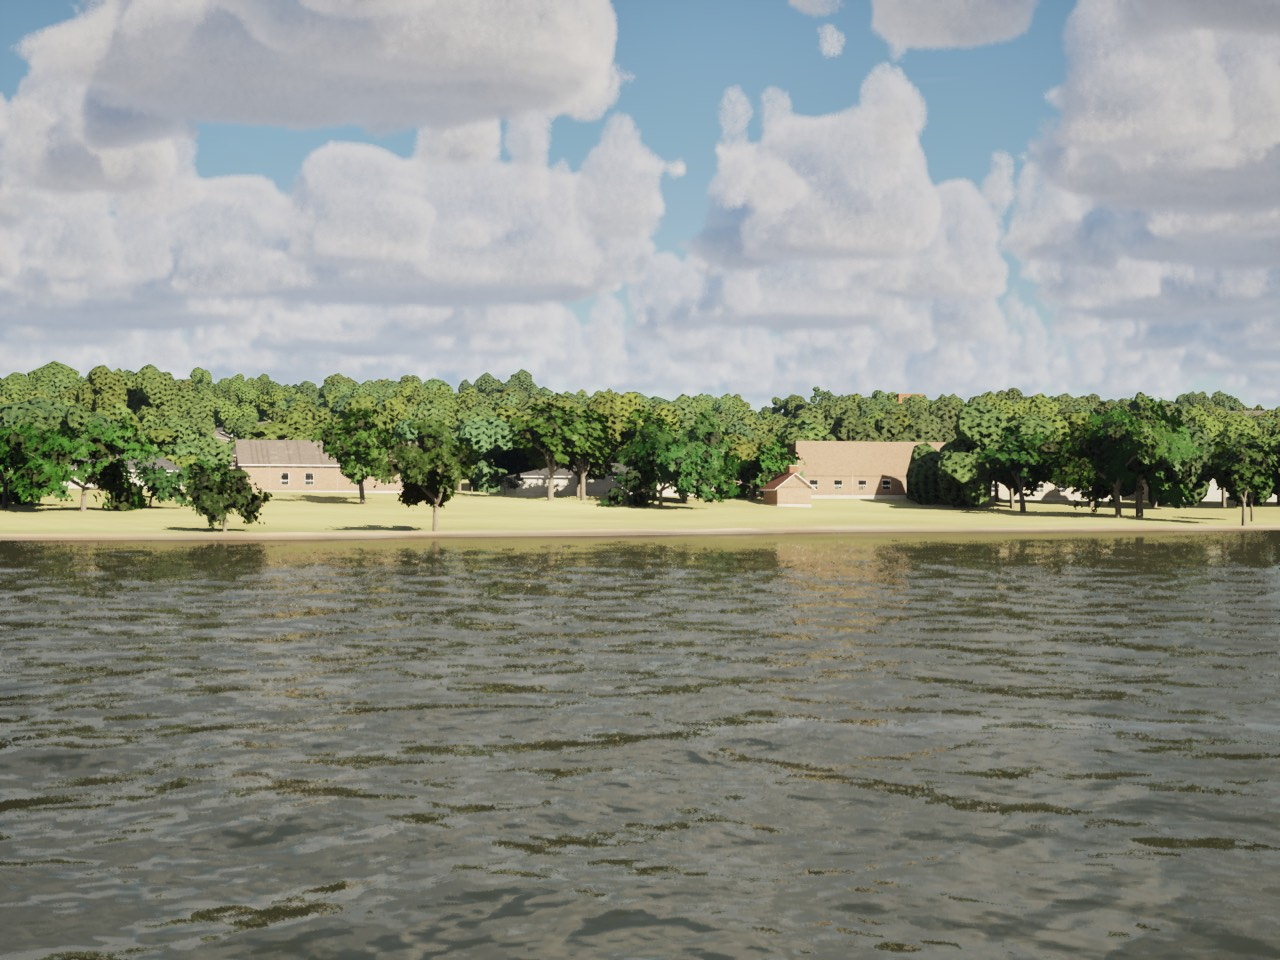
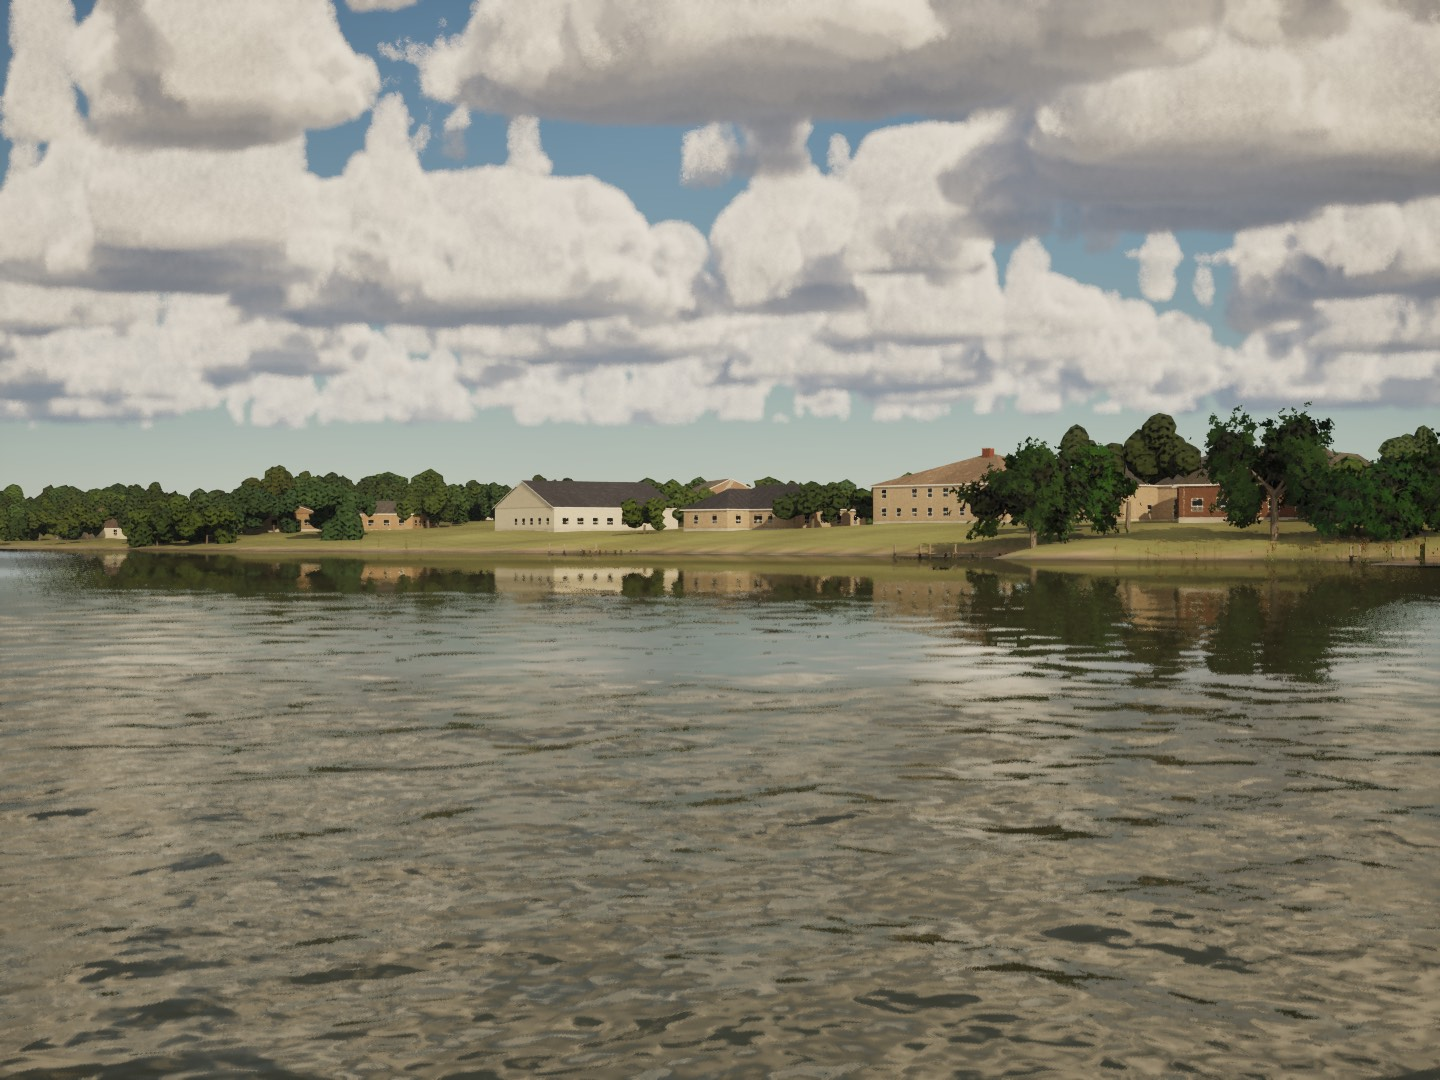
T1: Mac re-gate at 72e00da0 (High render thread within 0.4 ms of main) and shore150 from the PC's camera

diff --git a/docs/round-12/t1-trees/mac/README.md b/docs/round-12/t1-trees/mac/README.md
@@ -1,8 +1,8 @@
 # T1 trees: Mac stills and cost (High, M5 Pro, 1080p)
 
-Before is main c903d152; after is `t1-tree-lighting` 16753abb. Stills are the same scene, hour, weather and seed
-(`scenes.csv`, `scripts/capture-scenes.sh` uncooked). `shore150` is the Mac's stand-in for the PC's shore150 still
-(its arguments weren't saved): the east shore south of Chandlers Landing, about 150 m off, sun behind the camera.
+Before is main c903d152; after is `t1-tree-lighting` (lake towers and north shore at 16753abb, shore150 at 72e00da0). Stills are the same scene, hour, weather and seed
+(`scenes.csv`, `scripts/capture-scenes.sh` uncooked). `shore150` now uses the PC's camera (`-SailingCamWorld=60,260,2,80,0`, 17:00, 1440x1080), so the
+stills match the PC's.
 Compare with `real-shore.jpg` (real-10) and `real-lakeopen.jpg` (standing in for real-03); credits in `credits.md`.
 
 | Scene | Before | After |
@@ -11,24 +11,35 @@ Compare with `real-shore.jpg` (real-10) and `real-lakeopen.jpg` (standing in for
 | North lake shore | `r12-lake-north-shore-before.jpg` | `r12-lake-north-shore-after.jpg` |
 | Shore 150 m | `shore150-before.jpg` | `shore150-after.jpg` |
 
-## Cost (packaged Development, 12 s per view)
+## Cost (re-gate at 72e00da0, packaged Development, 12 s per view)
 
-`gate.sh --scope world` passes (Medium 60, High 45). GPU time is unchanged within the noise. On High, though, the
-render thread is 2 to 3.5 ms longer per frame, and the frame is bound by it:
+On 72e00da0 the crowns and the hidden proxies are in the ray-tracing scene on Ultra only; on High they are in Lumen's
+scene and the distance fields alone. `gate.sh --scope world` passes (Medium 60, High 45). Main c903d152 was re-benched
+in the same session, because this Mac runs some launches in a faster state (lake-towers 69 fps on main in the first
+gate and in one launch today, 64 in the others): compare within a session, not across them.
 
 | View (High) | fps main / branch | GPU ms | Lumen ms | render thread ms |
 |---|---|---|---|---|
-| marina | 61.6 / 52.8 | 14.42 / 14.19 | 1.97 / 2.06 | 15.99 / 18.65 |
-| coast-day | 53.6 / 45.1 | 15.40 / 15.87 | 2.12 / 2.09 | 18.32 / 21.78 |
-| coast-night | 59.6 / 49.2 | 16.51 / 14.71 | 2.23 / 2.00 | 16.53 / 20.00 |
-| helm-eye | 53.0 / 45.2 | 18.58 / 18.53 | 3.19 / 3.20 | 18.53 / 21.67 |
-| slip | 52.9 / 47.3 | 18.11 / 17.64 | 3.92 / 3.48 | 18.61 / 20.79 |
-| bridge | 64.2 / 53.3 | 14.12 / 14.23 | 2.06 / 1.99 | 15.34 / 18.47 |
-| marina-night | 53.2 / 48.2 | 18.21 / 17.11 | 3.23 / 3.05 | 18.52 / 20.42 |
-| lake-towers | 69.0 / 56.1 | 14.06 / 14.37 | 1.79 / 1.81 | 14.24 / 17.52 |
-| shore150 | 57.1 / 48.0 | 16.73 / 17.22 | 2.29 / 2.34 | 17.23 / 20.47 |
+| marina | 60.4 / 60.0 | 14.62 / 14.74 | 1.93 / 1.98 | 16.32 / 16.42 |
+| coast-day | 52.5 / 52.6 | 15.67 / 15.65 | 2.25 / 2.20 | 18.75 / 18.72 |
+| coast-night | 59.0 / 58.1 | 16.54 / 17.24 | 2.17 / 2.20 | 16.71 / 16.89 |
+| helm-eye | 52.3 / 51.3 | 18.18 / 18.43 | 3.17 / 3.33 | 18.76 / 19.14 |
+| slip | 52.4 / 51.6 | 17.49 / 17.47 | 3.93 / 3.81 | 18.78 / 19.07 |
+| bridge | 63.0 / 62.7 | 14.43 / 14.58 | 2.04 / 2.31 | 15.65 / 15.71 |
+| marina-night | 52.5 / 52.5 | 17.19 / 17.23 | 3.51 / 3.38 | 18.75 / 18.75 |
+| lake-towers | 64.2 / 63.1 | 14.98 / 15.99 | 2.15 / 2.25 | 15.32 / 15.58 |
+| shore150 | 51.9 / 51.0 | 18.31 / 19.44 | 2.72 / 2.54 | 18.94 / 19.26 |
 
-On Medium every view is within 2 fps of main. With `-SailingNoTreeLight` on the branch, lake-towers is 69.2 fps
-(render thread 14.19 ms) and shore150 57.1 (17.22 ms): the same as main. So the cost is the lighting part (the crowns
-and the hidden proxies in ray tracing and Lumen's scene), and on Metal it is CPU-side, not GPU. The looks (custom data
-0-2) cost nothing measurable. They don't collide with E1's slots 10-15, which are on the house and marina ISMs only.
+The render thread is within 0.4 ms of main on every view (it was 2 to 3.5 ms longer at 16753abb). On Medium every view
+is within 3 fps and 0.4 ms of main. lake-towers and shore150 (the bench used the earlier Mac stand-in camera,
+`-SailingLaunch=3 -SailingHour=16 -SailingCamWorld=5000,1650,2,90,1`) in the three states, fps / render thread ms:
+
+| View (High) | main | branch `-SailingNoTreeLight` | branch (High default) | branch `-SailingTreeRayTracing=1` |
+|---|---|---|---|---|
+| lake-towers | 64.2 / 15.32 | 64.0 / 15.35 | 63.1 / 15.58 | 52.3 / 18.76 |
+| shore150 | 51.9 / 18.94 | 51.4 / 19.11 | 51.0 / 19.26 | 43.4 / 22.62 |
+
+So the crowns in Lumen's scene alone cost 0.15 to 0.25 ms of render thread; in the ray-tracing scene they cost 3.4 ms,
+which is what Ultra-only now keeps off the Mac. The looks (custom data 0-2) and the new tree materials cost nothing
+measurable (with main's four tree assets swapped in, the branch measured the same). They don't collide with E1's slots
+10-15, which are on the house and marina ISMs only.
